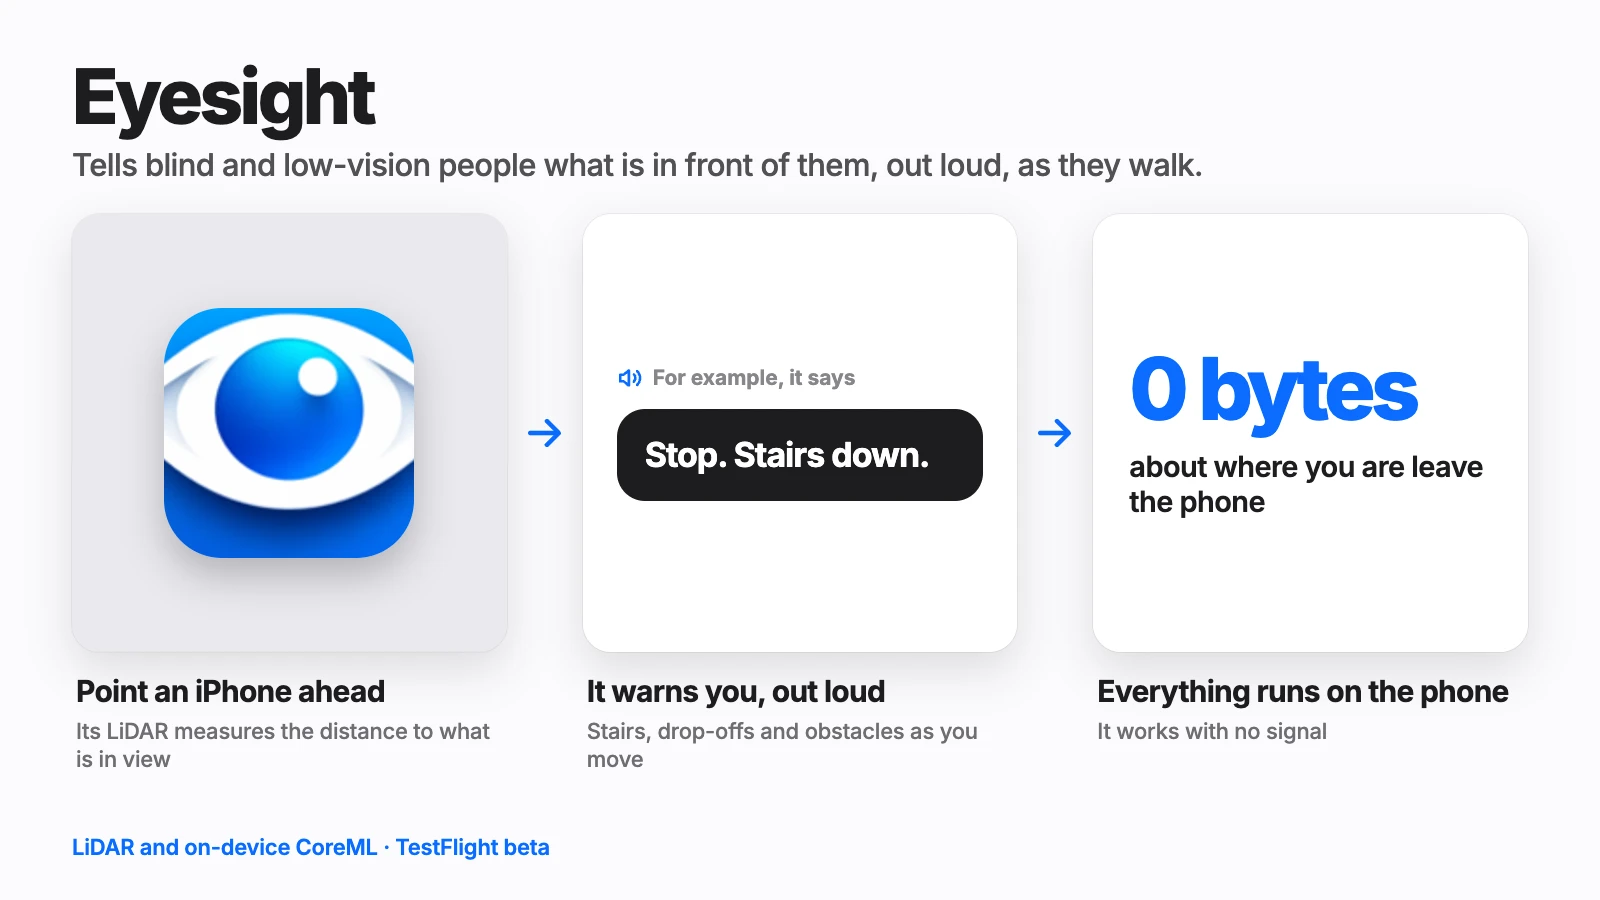
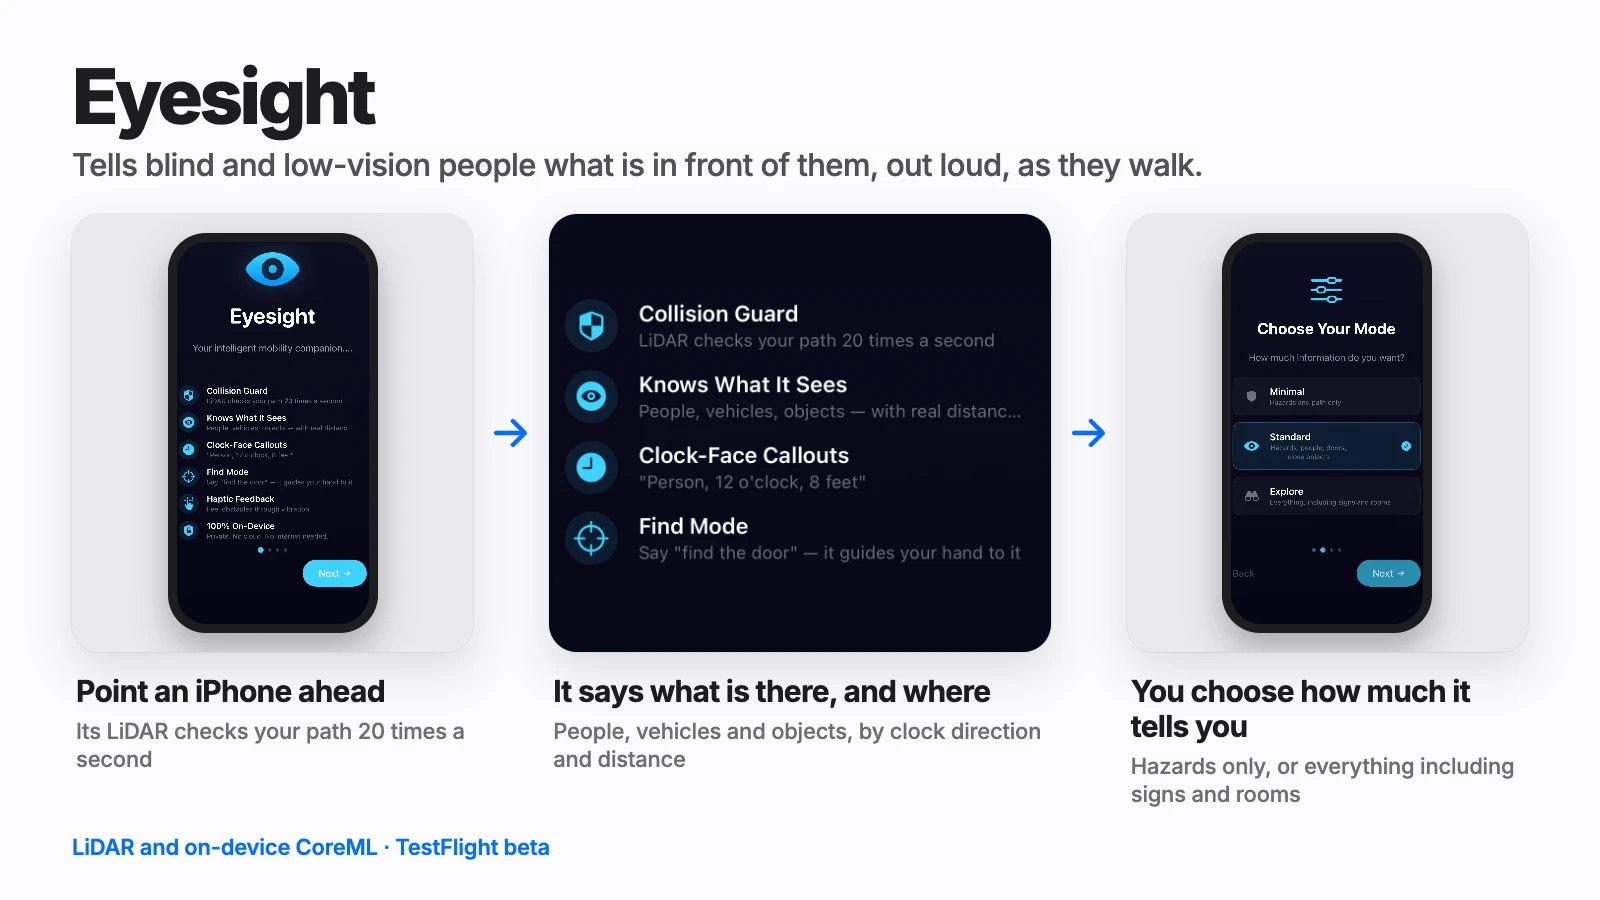
Eyesight cover: real app screens in place of the drawn panels
I built the app from its repository and ran it in the iOS simulator. The
cover now shows its own feature list and its mode picker, and the
captions quote what the app says about itself. The invented "Stop.
Stairs down." example and the "0 bytes" figure are gone.

diff --git a/sources/data/explainers.js b/sources/data/explainers.js
@@ -119,9 +119,9 @@ export const explainers = {
         line: 'Tells blind and low-vision people what is in front of them, out loud, as they walk.',
         proof: 'LiDAR and on-device CoreML · TestFlight beta',
         panels: [
-            { draw: 'icon', img: 'static/projects/images/eyesight-1.webp', caption: 'Point an iPhone ahead', sub: 'Its LiDAR measures the distance to what is in view' },
-            { draw: 'say', who: 'For example, it says', spoken: true, text: 'Stop. Stairs down.', caption: 'It warns you, out loud', sub: 'Stairs, drop-offs and obstacles as you move' },
-            { draw: 'stat', value: '0 bytes', label: 'about where you are leave the phone', caption: 'Everything runs on the phone', sub: 'It works with no signal' },
+            { draw: 'phone', img: `${ART}/eyesight-features.png`, caption: 'Point an iPhone ahead', sub: 'Its LiDAR checks your path 20 times a second' },
+            { img: `${ART}/eyesight-callouts.png`, fit: 'contain', background: '#070a18', span: 1.25, caption: 'It says what is there, and where', sub: 'People, vehicles and objects, by clock direction and distance' },
+            { draw: 'phone', img: `${ART}/eyesight-modes.png`, caption: 'You choose how much it tells you', sub: 'Hazards only, or everything including signs and rooms' },
         ],
     },
 
